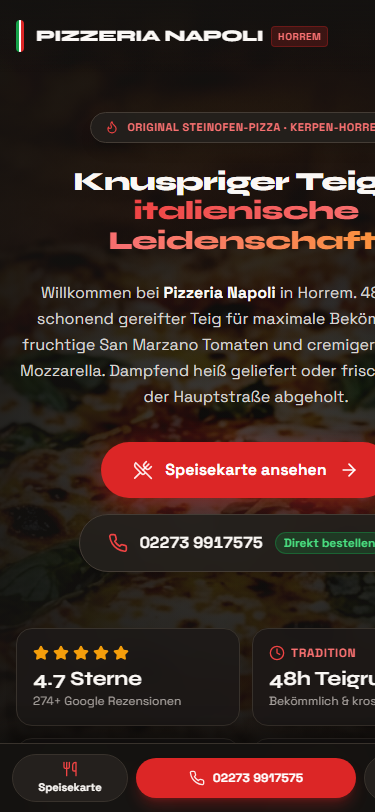
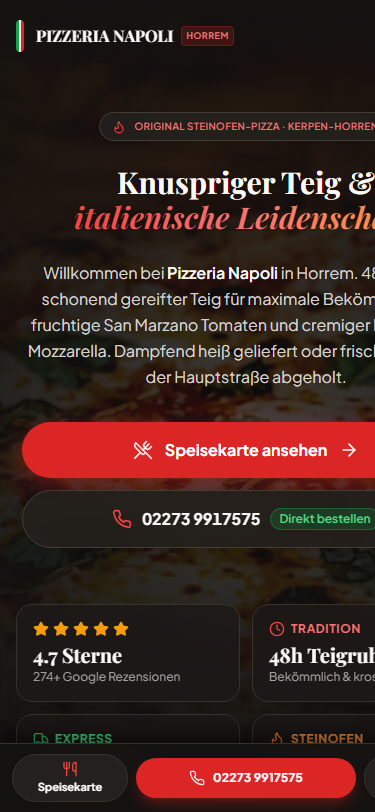
fix(typography): replace Syne with Playfair Display and Plus Jakarta Sans; polish responsive layout

diff --git a/src/components/Hero.tsx b/src/components/Hero.tsx
@@ -27,15 +27,15 @@ export default function Hero({ onOpenMenu, onOpenContact }: HeroProps) {
       <div className="relative z-10 max-w-6xl mx-auto px-4 sm:px-6 lg:px-8 w-full text-center space-y-6 sm:space-y-8">
         
         {/* Eyebrow Badge */}
-        <div className="inline-flex items-center gap-2 bg-[#24201d]/90 border border-[#443c35] px-3.5 py-1.5 rounded-full text-[11px] sm:text-xs font-semibold uppercase tracking-wider sm:tracking-widest text-[#f87171] shadow-lg backdrop-blur-md">
+        <div className="inline-flex items-center gap-2 bg-[#24201d]/90 border border-[#443c35] px-3 sm:px-3.5 py-1.5 rounded-full text-[10px] sm:text-xs font-semibold uppercase tracking-wide sm:tracking-widest text-[#f87171] shadow-lg backdrop-blur-md max-w-full">
           <Flame className="w-3.5 h-3.5 text-[#ef4444] shrink-0" />
-          <span>ORIGINAL STEINOFEN-PIZZA · KERPEN-HORREM</span>
+          <span className="truncate">ORIGINAL STEINOFEN-PIZZA · KERPEN-HORREM</span>
         </div>
 
         {/* Display Headline */}
-        <h1 className="font-['Syne',sans-serif] text-[26px] sm:text-5xl md:text-7xl lg:text-8xl font-black text-[#fbf8f5] tracking-tight leading-[1.15] sm:leading-[1.08] max-w-5xl mx-auto">
+        <h1 className="font-serif text-3xl sm:text-5xl md:text-6xl lg:text-7xl font-bold text-[#fbf8f5] tracking-normal leading-[1.18] max-w-5xl mx-auto">
           Knuspriger Teig & <br />
-          <span className="text-transparent bg-clip-text bg-gradient-to-r from-[#ef4444] via-[#f87171] to-[#fb923c]">
+          <span className="text-transparent bg-clip-text bg-gradient-to-r from-[#ef4444] via-[#f87171] to-[#fb923c] italic font-normal inline-block">
             italienische Leidenschaft
           </span>.
         </h1>
@@ -48,11 +48,11 @@ export default function Hero({ onOpenMenu, onOpenContact }: HeroProps) {
         </p>
 
         {/* CTAs */}
-        <div className="flex flex-wrap items-center justify-center gap-4 pt-2 sm:pt-4">
+        <div className="flex flex-col sm:flex-row items-center justify-center gap-3 sm:gap-4 pt-2 sm:pt-4 w-full max-w-md sm:max-w-none mx-auto">
           <button
             onClick={onOpenMenu}
             aria-label="Speisekarte ansehen"
-            className="bg-[#dc2626] hover:bg-[#b91c1c] text-white font-bold text-base sm:text-lg px-8 sm:px-10 py-4 sm:py-5 rounded-full shadow-[0_8px_30px_rgba(220,38,38,0.45)] transition-all transform active:scale-98 flex items-center gap-3 cursor-pointer group"
+            className="w-full sm:w-auto bg-[#dc2626] hover:bg-[#b91c1c] text-white font-bold text-base sm:text-lg px-8 sm:px-10 py-4 sm:py-5 rounded-full shadow-[0_8px_30px_rgba(220,38,38,0.45)] transition-all transform active:scale-98 flex items-center justify-center gap-3 cursor-pointer group"
           >
             <UtensilsCrossed className="w-5 h-5 text-white/90" />
             <span>Speisekarte ansehen</span>
@@ -61,11 +61,11 @@ export default function Hero({ onOpenMenu, onOpenContact }: HeroProps) {
 
           <a
             href="tel:022739917575"
-            className="bg-[#24201d]/90 hover:bg-[#2d2823] text-[#fbf8f5] font-semibold text-base sm:text-lg px-7 py-4 sm:py-5 rounded-full border border-[#443c35] hover:border-[#dc2626]/60 shadow-lg backdrop-blur-md transition-all flex items-center gap-3 active:scale-98"
+            className="w-full sm:w-auto bg-[#24201d]/90 hover:bg-[#2d2823] text-[#fbf8f5] font-semibold text-base sm:text-lg px-6 sm:px-7 py-4 sm:py-5 rounded-full border border-[#443c35] hover:border-[#dc2626]/60 shadow-lg backdrop-blur-md transition-all flex items-center justify-center gap-2.5 sm:gap-3 active:scale-98"
           >
-            <Phone className="w-5 h-5 text-[#ef4444]" />
+            <Phone className="w-5 h-5 text-[#ef4444] shrink-0" />
             <span className="tabular-nums font-bold">02273 9917575</span>
-            <span className="text-xs bg-[#16a34a]/20 text-[#4ade80] border border-[#16a34a]/40 px-2 py-0.5 rounded-full">
+            <span className="text-xs bg-[#16a34a]/20 text-[#4ade80] border border-[#16a34a]/40 px-2 py-0.5 rounded-full shrink-0">
               Direkt bestellen
             </span>
           </a>
@@ -89,7 +89,7 @@ export default function Hero({ onOpenMenu, onOpenContact }: HeroProps) {
                 <Star key={i} className="w-4 h-4 fill-[#f59e0b]" />
               ))}
             </div>
-            <div className="font-['Syne',sans-serif] text-xl font-bold text-[#fbf8f5]">4.7 Sterne</div>
+            <div className="font-serif text-xl font-bold text-[#fbf8f5]">4.7 Sterne</div>
             <div className="text-xs text-[#a8a29e]">274+ Google Rezensionen</div>
           </div>
 
@@ -99,7 +99,7 @@ export default function Hero({ onOpenMenu, onOpenContact }: HeroProps) {
               <Clock className="w-4 h-4" />
               <span className="text-xs font-bold text-[#f87171] uppercase tracking-wider">Tradition</span>
             </div>
-            <div className="font-['Syne',sans-serif] text-xl font-bold text-[#fbf8f5]">48h Teigruhe</div>
+            <div className="font-serif text-xl font-bold text-[#fbf8f5]">48h Teigruhe</div>
             <div className="text-xs text-[#a8a29e]">Bekömmlich & kross gebacken</div>
           </div>
 
@@ -109,7 +109,7 @@ export default function Hero({ onOpenMenu, onOpenContact }: HeroProps) {
               <Truck className="w-4 h-4" />
               <span className="text-xs font-bold text-[#4ade80] uppercase tracking-wider">Express</span>
             </div>
-            <div className="font-['Syne',sans-serif] text-xl font-bold text-[#fbf8f5]">Heiß geliefert</div>
+            <div className="font-serif text-xl font-bold text-[#fbf8f5]">Heiß geliefert</div>
             <div className="text-xs text-[#a8a29e]">Isolierte Thermoboxen</div>
           </div>
 
@@ -119,7 +119,7 @@ export default function Hero({ onOpenMenu, onOpenContact }: HeroProps) {
               <Flame className="w-4 h-4" />
               <span className="text-xs font-bold text-[#fb923c] uppercase tracking-wider">Steinofen</span>
             </div>
-            <div className="font-['Syne',sans-serif] text-xl font-bold text-[#fbf8f5]">Original Steinofen</div>
+            <div className="font-serif text-xl font-bold text-[#fbf8f5]">Original Steinofen</div>
             <div className="text-xs text-[#a8a29e]">Hauptstraße 181, Horrem</div>
           </div>
 

diff --git a/src/index.css b/src/index.css
@@ -1,15 +1,18 @@
 @import 'tailwindcss';
-@import '@fontsource/syne/400.css';
-@import '@fontsource/syne/700.css';
-@import '@fontsource/syne/800.css';
-@import '@fontsource/space-grotesk/400.css';
-@import '@fontsource/space-grotesk/500.css';
-@import '@fontsource/space-grotesk/700.css';
+@import '@fontsource/playfair-display/400.css';
+@import '@fontsource/playfair-display/600.css';
+@import '@fontsource/playfair-display/700.css';
+@import '@fontsource/playfair-display/700-italic.css';
+@import '@fontsource/playfair-display/900.css';
+@import '@fontsource/plus-jakarta-sans/400.css';
+@import '@fontsource/plus-jakarta-sans/500.css';
+@import '@fontsource/plus-jakarta-sans/600.css';
+@import '@fontsource/plus-jakarta-sans/700.css';
 
 /* ==========================================================================
-   Design-Familie 4: Urbane Energie & Italienische Handwerkskunst
-   Sub-Code: 4f (Pizzeria / Lieferservice)
    Pizzeria Napoli Kerpen-Horrem
+   Typografie: Playfair Display (Italienische Eleganz, natürliche Proportionen)
+   Body: Plus Jakarta Sans (Klar, harmonisch, perfekt lesbar, nie gestaucht)
    Color Scheme: dark (Warmes Ofenfeuer, Espresso & Tomatenrot)
    ========================================================================== */
 
@@ -19,8 +22,10 @@
 
 @theme {
   /* Typografie */
-  --font-display: "Syne", sans-serif;
-  --font-body: "Space Grotesk", sans-serif;
+  --font-display: "Playfair Display", Georgia, serif;
+  --font-serif: "Playfair Display", Georgia, serif;
+  --font-body: "Plus Jakarta Sans", system-ui, sans-serif;
+  --font-sans: "Plus Jakarta Sans", system-ui, sans-serif;
 
   /* Typografie Skala (Clamp) */
   --text-eyebrow: clamp(0.7rem, 0.65rem + 0.2vw, 0.8rem);
@@ -31,7 +36,7 @@
   --text-h2:      clamp(2.25rem, 1.9rem + 1.8vw, 3.5rem);
   --text-h1:      clamp(2.75rem, 2.2rem + 2.8vw, 4.75rem);
 
-  /* Farben & Akzente: Warmes Espresso, Italienisches Tomatenrot, Basilikumgrün */
+  /* Farben & Akzente */
   --color-accent: #dc2626;
   --color-accent-hover: #b91c1c;
   --color-accent-warm: #ea580c;
@@ -54,11 +59,13 @@
   --duration-reveal: 400ms;
 }
 
-/* Custom Scrollbar & Utilities */
-html {
+html, body {
   scroll-behavior: smooth;
   background-color: var(--color-bg-base);
   color: var(--color-text-primary);
+  font-family: var(--font-body);
+  overflow-x: hidden;
+  max-width: 100vw;
 }
 
 ::selection {

diff --git a/src/components/Footer.tsx b/src/components/Footer.tsx
@@ -20,7 +20,7 @@ export default function Footer({ onOpenLegal, onOpenMenu }: FooterProps) {
                 <span className="w-full bg-[#ffffff]" />
                 <span className="w-full bg-[#dc2626]" />
               </div>
-              <span className="font-['Syne',sans-serif] text-xl font-extrabold text-[#fbf8f5] tracking-tight">
+              <span className="font-serif text-xl font-extrabold text-[#fbf8f5] tracking-tight">
                 PIZZERIA NAPOLI
               </span>
             </div>
@@ -44,7 +44,7 @@ export default function Footer({ onOpenLegal, onOpenMenu }: FooterProps) {
 
           {/* Quick Links */}
           <div className="space-y-3">
-            <h4 className="font-['Syne',sans-serif] text-sm font-bold uppercase tracking-wider text-[#fbf8f5]">
+            <h4 className="font-serif text-sm font-bold uppercase tracking-wider text-[#fbf8f5]">
               Navigation
             </h4>
             <ul className="space-y-2 text-xs sm:text-sm">
@@ -85,7 +85,7 @@ export default function Footer({ onOpenLegal, onOpenMenu }: FooterProps) {
 
           {/* Contact & Address */}
           <div className="space-y-3">
-            <h4 className="font-['Syne',sans-serif] text-sm font-bold uppercase tracking-wider text-[#fbf8f5]">
+            <h4 className="font-serif text-sm font-bold uppercase tracking-wider text-[#fbf8f5]">
               Kontakt & Bestellung
             </h4>
             <div className="space-y-2 text-xs sm:text-sm">
@@ -113,7 +113,7 @@ export default function Footer({ onOpenLegal, onOpenMenu }: FooterProps) {
 
           {/* Legal / Rechtliches */}
           <div className="space-y-3">
-            <h4 className="font-['Syne',sans-serif] text-sm font-bold uppercase tracking-wider text-[#fbf8f5]">
+            <h4 className="font-serif text-sm font-bold uppercase tracking-wider text-[#fbf8f5]">
               Rechtliches & DSGVO
             </h4>
             <p className="text-xs text-[#78716c] leading-relaxed">

diff --git a/src/components/MenuSection.tsx b/src/components/MenuSection.tsx
@@ -182,7 +182,7 @@ export default function MenuSection() {
             <span>Auswahl aus unserer Karte</span>
           </div>
 
-          <h2 className="font-['Syne',sans-serif] text-3xl sm:text-5xl font-black text-[#fbf8f5] tracking-tight">
+          <h2 className="font-serif text-3xl sm:text-5xl font-black text-[#fbf8f5] tracking-tight">
             Ofenfrische Spezialitäten
           </h2>
 
@@ -253,11 +253,11 @@ export default function MenuSection() {
                       <span className="text-[11px] font-bold uppercase tracking-wider text-[#a8a29e]">
                         {item.categoryLabel}
                       </span>
-                      <h3 className="font-['Syne',sans-serif] text-xl font-bold text-[#fbf8f5] group-hover:text-[#f87171] transition-colors">
+                      <h3 className="font-serif text-xl font-bold text-[#fbf8f5] group-hover:text-[#f87171] transition-colors">
                         {item.name}
                       </h3>
                     </div>
-                    <div className="font-['Syne',sans-serif] text-xl font-black text-[#fbf8f5] tabular-nums whitespace-nowrap bg-[#292420] border border-[#443c35] px-3 py-1 rounded-xl">
+                    <div className="font-serif text-xl font-black text-[#fbf8f5] tabular-nums whitespace-nowrap bg-[#292420] border border-[#443c35] px-3 py-1 rounded-xl">
                       {item.price}
                     </div>
                   </div>
@@ -301,7 +301,7 @@ export default function MenuSection() {
               <Check className="w-4 h-4" />
               <span>Direktbestell-Vorteil für Horrem & Umgebung</span>
             </div>
-            <h4 className="font-['Syne',sans-serif] text-lg font-bold text-[#fbf8f5]">
+            <h4 className="font-serif text-lg font-bold text-[#fbf8f5]">
               Keine Plattformgebühren · Frischer & schneller bei dir
             </h4>
             <p className="text-xs sm:text-sm text-[#a8a29e]">

diff --git a/src/components/ServicePrices.tsx b/src/components/ServicePrices.tsx
@@ -182,7 +182,7 @@ export default function MenuSection() {
             <span>Auswahl aus unserer Karte</span>
           </div>
 
-          <h2 className="font-['Syne',sans-serif] text-3xl sm:text-5xl font-black text-[#fbf8f5] tracking-tight">
+          <h2 className="font-serif text-3xl sm:text-5xl font-black text-[#fbf8f5] tracking-tight">
             Ofenfrische Spezialitäten
           </h2>
 
@@ -253,11 +253,11 @@ export default function MenuSection() {
                       <span className="text-[11px] font-bold uppercase tracking-wider text-[#a8a29e]">
                         {item.categoryLabel}
                       </span>
-                      <h3 className="font-['Syne',sans-serif] text-xl font-bold text-[#fbf8f5] group-hover:text-[#f87171] transition-colors">
+                      <h3 className="font-serif text-xl font-bold text-[#fbf8f5] group-hover:text-[#f87171] transition-colors">
                         {item.name}
                       </h3>
                     </div>
-                    <div className="font-['Syne',sans-serif] text-xl font-black text-[#fbf8f5] tabular-nums whitespace-nowrap bg-[#292420] border border-[#443c35] px-3 py-1 rounded-xl">
+                    <div className="font-serif text-xl font-black text-[#fbf8f5] tabular-nums whitespace-nowrap bg-[#292420] border border-[#443c35] px-3 py-1 rounded-xl">
                       {item.price}
                     </div>
                   </div>
@@ -301,7 +301,7 @@ export default function MenuSection() {
               <Check className="w-4 h-4" />
               <span>Direktbestell-Vorteil für Horrem & Umgebung</span>
             </div>
-            <h4 className="font-['Syne',sans-serif] text-lg font-bold text-[#fbf8f5]">
+            <h4 className="font-serif text-lg font-bold text-[#fbf8f5]">
               Keine Plattformgebühren · Frischer & schneller bei dir
             </h4>
             <p className="text-xs sm:text-sm text-[#a8a29e]">

diff --git a/src/components/OpeningHoursDelivery.tsx b/src/components/OpeningHoursDelivery.tsx
@@ -31,7 +31,7 @@ export default function OpeningHoursDelivery() {
             <span>Öffnungszeiten & Service</span>
           </div>
 
-          <h2 className="font-['Syne',sans-serif] text-3xl sm:text-5xl font-black text-[#fbf8f5] tracking-tight">
+          <h2 className="font-serif text-3xl sm:text-5xl font-black text-[#fbf8f5] tracking-tight">
             Wann & Wohin wir liefern
           </h2>
 
@@ -50,7 +50,7 @@ export default function OpeningHoursDelivery() {
                 <Clock className="w-5 h-5" />
               </div>
               <div>
-                <h3 className="font-['Syne',sans-serif] text-xl font-bold text-[#fbf8f5]">
+                <h3 className="font-serif text-xl font-bold text-[#fbf8f5]">
                   Öffnungszeiten Pizzeria Napoli
                 </h3>
                 <p className="text-xs text-[#a8a29e]">Hauptstraße 181, 50169 Kerpen-Horrem</p>
@@ -91,7 +91,7 @@ export default function OpeningHoursDelivery() {
                 <Truck className="w-5 h-5" />
               </div>
               <div>
-                <h3 className="font-['Syne',sans-serif] text-xl font-bold text-[#fbf8f5]">
+                <h3 className="font-serif text-xl font-bold text-[#fbf8f5]">
                   Unser Liefergebiet im Rhein-Erft-Kreis
                 </h3>
                 <p className="text-xs text-[#a8a29e]">Schnell, zuverlässig & heiß in Thermoboxen</p>
@@ -124,7 +124,7 @@ export default function OpeningHoursDelivery() {
                 <CheckCircle2 className="w-4 h-4" />
                 <span>Schnellste Bestellung ohne Wartezeit</span>
               </div>
-              <h4 className="font-['Syne',sans-serif] text-lg font-bold text-[#fbf8f5]">
+              <h4 className="font-serif text-lg font-bold text-[#fbf8f5]">
                 Jetzt anrufen & frisch bestellen
               </h4>
               <p className="text-xs text-[#a8a29e] leading-relaxed">

diff --git a/src/components/ContactMap.tsx b/src/components/ContactMap.tsx
@@ -12,7 +12,7 @@ export default function ContactMap() {
             <span>Standort & Kontakt</span>
           </div>
 
-          <h2 className="font-['Syne',sans-serif] text-3xl sm:text-5xl font-black text-[#fbf8f5] tracking-tight">
+          <h2 className="font-serif text-3xl sm:text-5xl font-black text-[#fbf8f5] tracking-tight">
             Besuche uns in Kerpen-Horrem
           </h2>
 
@@ -27,7 +27,7 @@ export default function ContactMap() {
           <div className="lg:col-span-5 bg-[#1c1917] border border-[#38322c] rounded-3xl p-6 sm:p-8 shadow-2xl flex flex-col justify-between space-y-6">
             <div className="space-y-6">
               <div>
-                <h3 className="font-['Syne',sans-serif] text-2xl font-bold text-[#fbf8f5] mb-1">
+                <h3 className="font-serif text-2xl font-bold text-[#fbf8f5] mb-1">
                   Pizzeria Napoli
                 </h3>
                 <p className="text-sm text-[#a8a29e]">Baran & Baran GbR</p>
@@ -108,7 +108,7 @@ export default function ContactMap() {
                 </div>
 
                 <div className="space-y-1">
-                  <div className="font-['Syne',sans-serif] text-xl font-bold text-[#fbf8f5]">
+                  <div className="font-serif text-xl font-bold text-[#fbf8f5]">
                     Pizzeria Napoli Horrem
                   </div>
                   <div className="text-sm text-[#ef4444] font-semibold">

diff --git a/src/components/GoogleReviews.tsx b/src/components/GoogleReviews.tsx
@@ -44,7 +44,7 @@ export default function GoogleReviews() {
         <div className="bg-[#1c1917] border border-[#38322c] rounded-3xl p-6 sm:p-10 mb-12 shadow-2xl flex flex-col md:flex-row items-center justify-between gap-8">
           <div className="flex flex-col sm:flex-row items-center gap-6 text-center sm:text-left">
             <div className="w-20 h-20 rounded-2xl bg-[#24201d] border border-[#443c35] flex flex-col items-center justify-center shrink-0">
-              <span className="font-['Syne',sans-serif] text-3xl font-black text-[#fbf8f5]">4.7</span>
+              <span className="font-serif text-3xl font-black text-[#fbf8f5]">4.7</span>
               <div className="flex items-center gap-0.5 text-[#f59e0b]">
                 {[...Array(5)].map((_, i) => (
                   <Star key={i} className="w-3 h-3 fill-[#f59e0b]" />
@@ -53,7 +53,7 @@ export default function GoogleReviews() {
             </div>
 
             <div className="space-y-1">
-              <h3 className="font-['Syne',sans-serif] text-2xl font-bold text-[#fbf8f5]">
+              <h3 className="font-serif text-2xl font-bold text-[#fbf8f5]">
                 Ausgezeichnet bei Google
               </h3>
               <p className="text-sm text-[#a8a29e]">

diff --git a/src/components/Navbar.tsx b/src/components/Navbar.tsx
@@ -40,10 +40,10 @@ export default function Navbar({ onOpenMenu, onOpenContact }: NavbarProps) {
 
             <div>
               <div className="flex items-center gap-2">
-                <span className="font-['Syne',sans-serif] text-base sm:text-2xl font-extrabold tracking-tight text-[#fbf8f5] group-hover:text-[#dc2626] transition-colors">
+                <span className="font-serif text-base sm:text-2xl font-bold tracking-normal text-[#fbf8f5] group-hover:text-[#dc2626] transition-colors whitespace-nowrap">
                   PIZZERIA NAPOLI
                 </span>
-                <span className="text-[10px] font-bold uppercase tracking-wider bg-[#dc2626]/20 text-[#f87171] border border-[#dc2626]/30 px-1.5 py-0.5 rounded">
+                <span className="text-[9px] sm:text-[10px] font-bold uppercase tracking-wider bg-[#dc2626]/20 text-[#f87171] border border-[#dc2626]/30 px-1 sm:px-1.5 py-0.5 rounded shrink-0">
                   HORREM
                 </span>
               </div>

diff --git a/src/components/FAQ.tsx b/src/components/FAQ.tsx
@@ -42,7 +42,7 @@ export default function FAQ() {
             <span>Häufige Fragen</span>
           </div>
 
-          <h2 className="font-['Syne',sans-serif] text-3xl sm:text-5xl font-black text-[#fbf8f5] tracking-tight">
+          <h2 className="font-serif text-3xl sm:text-5xl font-black text-[#fbf8f5] tracking-tight">
             Fragen & Antworten
           </h2>
 
@@ -65,7 +65,7 @@ export default function FAQ() {
                   className="w-full p-5 sm:p-6 text-left flex items-center justify-between gap-4 cursor-pointer hover:text-[#f87171] transition-colors"
                   aria-expanded={isOpen}
                 >
-                  <span className="font-['Syne',sans-serif] font-bold text-base sm:text-lg text-[#fbf8f5]">
+                  <span className="font-serif font-bold text-base sm:text-lg text-[#fbf8f5]">
                     {faq.q}
                   </span>
                   <ChevronDown

diff --git a/src/components/LegalModals.tsx b/src/components/LegalModals.tsx
@@ -23,7 +23,7 @@ export default function LegalModals({ type, onClose }: LegalModalsProps) {
 
         {type === 'impressum' ? (
           <div>
-            <h2 className="font-['Syne',sans-serif] text-2xl sm:text-3xl font-black text-[#fbf8f5] mb-4">
+            <h2 className="font-serif text-2xl sm:text-3xl font-black text-[#fbf8f5] mb-4">
               Impressum
             </h2>
 
@@ -79,7 +79,7 @@ export default function LegalModals({ type, onClose }: LegalModalsProps) {
               <span className="text-xs font-bold uppercase tracking-wider">Zero-Tracker & DSGVO-Konform</span>
             </div>
 
-            <h2 className="font-['Syne',sans-serif] text-2xl sm:text-3xl font-black text-[#fbf8f5] mb-4">
+            <h2 className="font-serif text-2xl sm:text-3xl font-black text-[#fbf8f5] mb-4">
               Datenschutzerklärung
             </h2>
 

diff --git a/src/components/QualityPromise.tsx b/src/components/QualityPromise.tsx
@@ -43,7 +43,7 @@ export default function QualityPromise() {
             <span>Warum Pizzeria Napoli?</span>
           </div>
 
-          <h2 className="font-['Syne',sans-serif] text-3xl sm:text-5xl font-black text-[#fbf8f5] tracking-tight">
+          <h2 className="font-serif text-3xl sm:text-5xl font-black text-[#fbf8f5] tracking-tight">
             Echte Handwerkskunst statt schneller Massenware
           </h2>
 
@@ -72,7 +72,7 @@ export default function QualityPromise() {
                     </span>
                   </div>
 
-                  <h3 className="font-['Syne',sans-serif] text-2xl font-bold text-[#fbf8f5] mb-1">
+                  <h3 className="font-serif text-2xl font-bold text-[#fbf8f5] mb-1">
                     {p.title}
                   </h3>
                   <div className="text-sm font-semibold text-[#f87171] mb-3">
